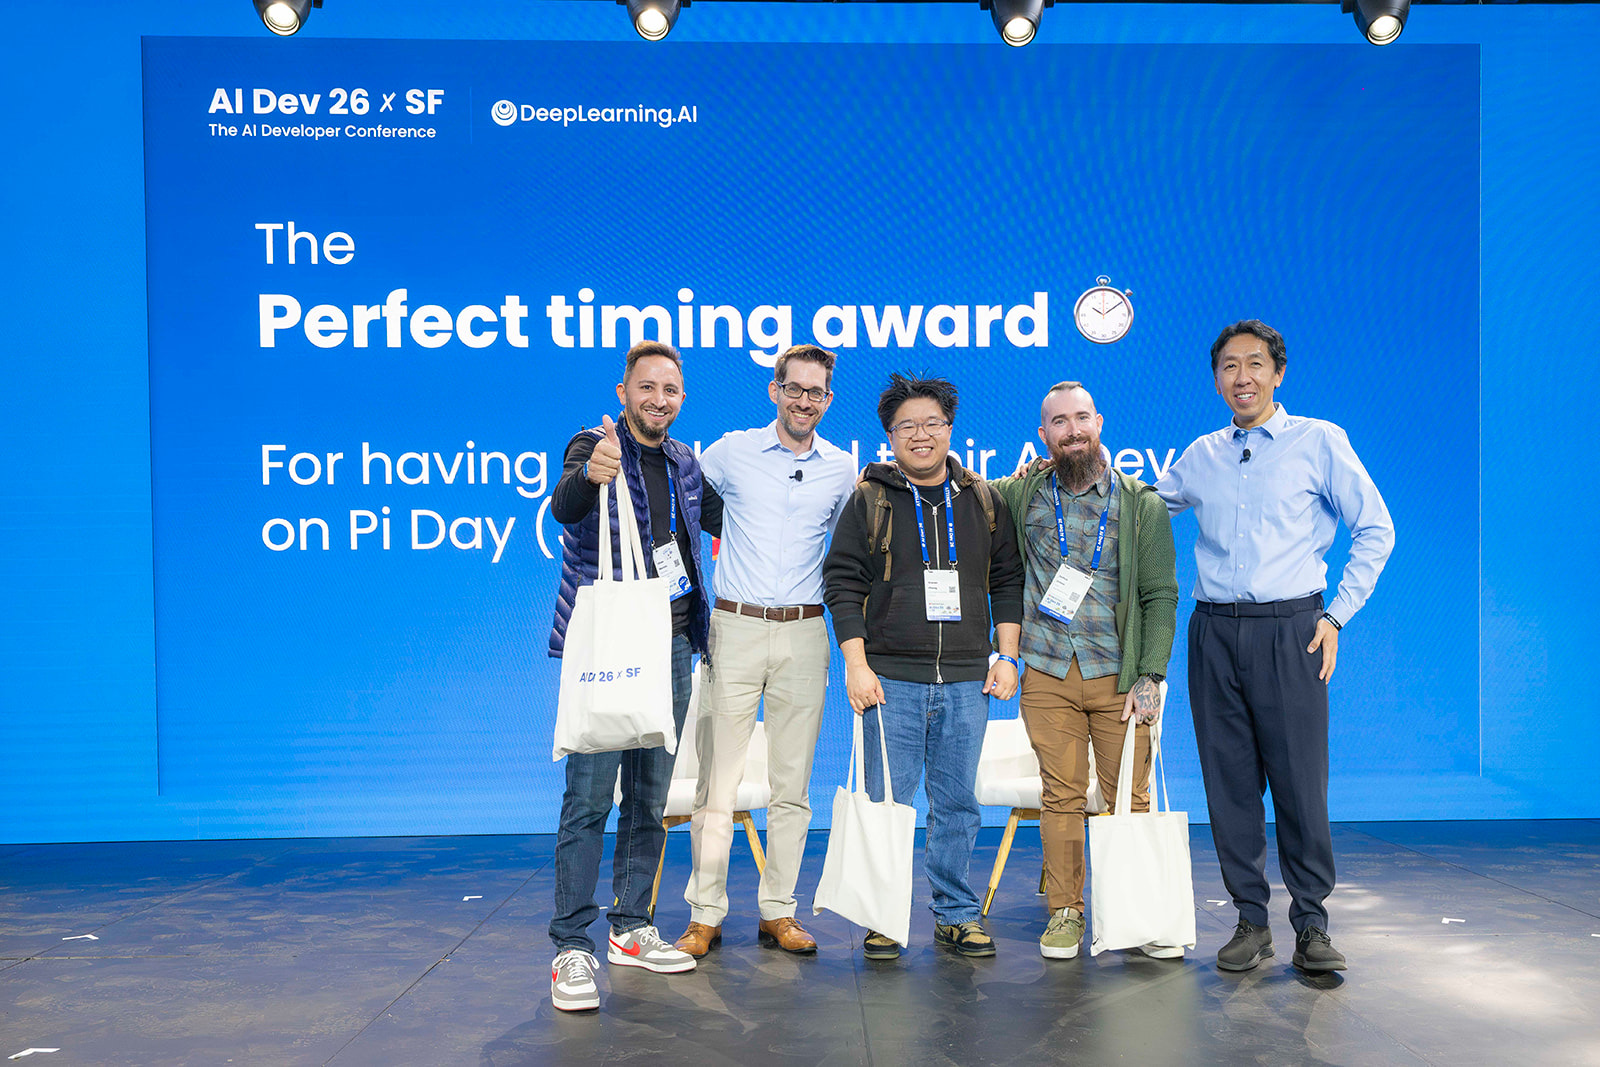
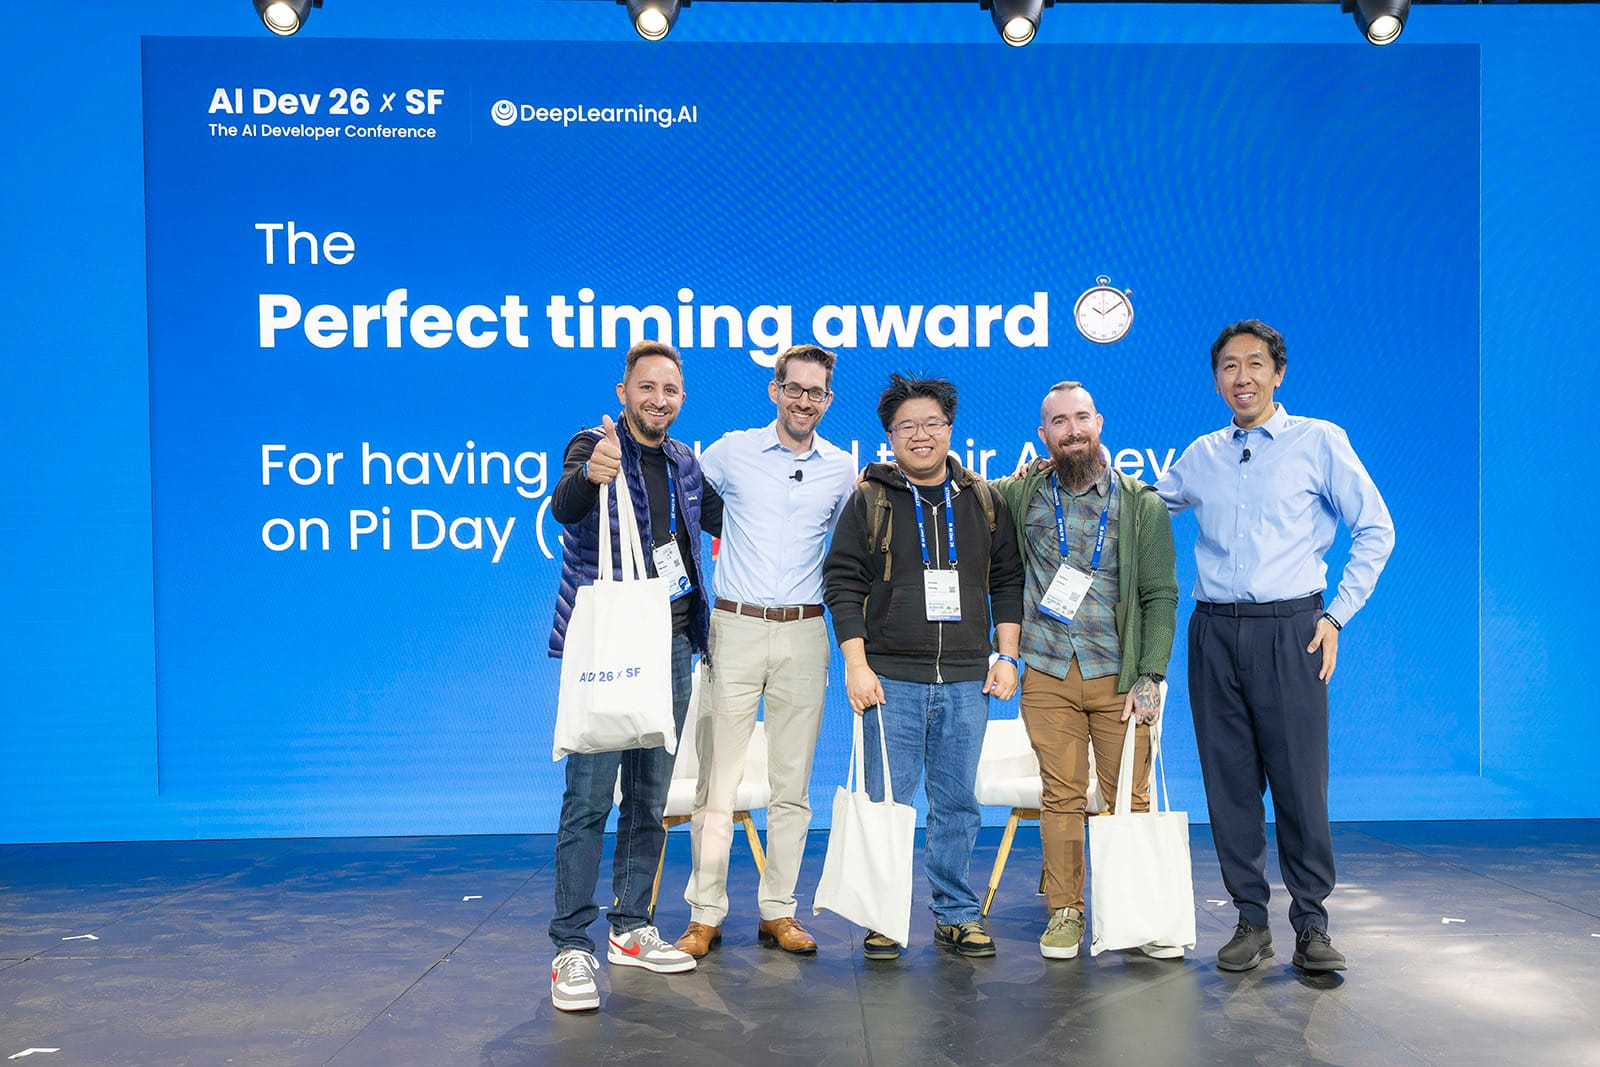
Performance: self-hosted fonts, compressed images, lazy loading
- Migrate Inter + JetBrains Mono to next/font/google CSS variables;
  remove the render-blocking Google Fonts @import from globals.css
- Compress the two conference photos with sharp (2.1MB -> 255KB and
  616KB -> 218KB, EXIF orientation preserved, same filenames)
- loading=lazy decoding=async on MDX images and side-quest galleries
- Blog list cards no longer replay their stagger animation on every
  search keystroke (animate on first mount only)

Claude-Session: https://claude.ai/code/session_01SyUrz6RwxZgkCLqQGGCmSj

diff --git a/components/BlogList.tsx b/components/BlogList.tsx
@@ -8,7 +8,7 @@
   - Hover effects
 */
 
-import { useState } from "react";
+import { useEffect, useRef, useState } from "react";
 import Link from "next/link";
 import { motion } from "framer-motion";
 import { Search, Calendar, Clock, ArrowRight } from "lucide-react";
@@ -30,6 +30,13 @@ function formatDate(dateString: string): string {
 
 export function BlogList({ posts }: BlogListProps) {
   const [searchQuery, setSearchQuery] = useState("");
+
+  // Stagger the entrance animation only on first mount — filtered cards
+  // re-mount while typing and shouldn't re-animate on every keystroke.
+  const hasAnimated = useRef(false);
+  useEffect(() => {
+    hasAnimated.current = true;
+  }, []);
 
   // Filter posts based on search query
   const filteredPosts = posts.filter((post) => {
@@ -62,9 +69,9 @@ export function BlogList({ posts }: BlogListProps) {
         {filteredPosts.map((post, index) => (
           <motion.article
             key={post.slug}
-            initial={{ opacity: 0, y: 20 }}
+            initial={hasAnimated.current ? false : { opacity: 0, y: 20 }}
             animate={{ opacity: 1, y: 0 }}
-            transition={{ delay: index * 0.1 }}
+            transition={{ delay: hasAnimated.current ? 0 : index * 0.1 }}
             className="group"
           >
             <Link href={`/blog/${post.slug}`}>

diff --git a/app/layout.tsx b/app/layout.tsx
@@ -11,10 +11,25 @@
 */
 
 import type { Metadata } from "next";
+import { Inter, JetBrains_Mono } from "next/font/google";
 import "./globals.css";
 import { Navigation } from "@/components/Navigation";
 import { Footer } from "@/components/Footer";
 import { ThemeProvider } from "@/components/ThemeProvider";
+
+// Self-hosted via next/font — replaces the render-blocking Google Fonts
+// @import that used to live in globals.css.
+const inter = Inter({
+  subsets: ["latin"],
+  variable: "--font-inter",
+  display: "swap",
+});
+
+const jetbrainsMono = JetBrains_Mono({
+  subsets: ["latin"],
+  variable: "--font-jetbrains-mono",
+  display: "swap",
+});
 
 // Metadata for SEO - this appears in browser tabs and search results
 export const metadata: Metadata = {
@@ -48,7 +63,11 @@ export default function RootLayout({
   children: React.ReactNode;
 }>) {
   return (
-    <html lang="en" suppressHydrationWarning>
+    <html
+      lang="en"
+      suppressHydrationWarning
+      className={`${inter.variable} ${jetbrainsMono.variable}`}
+    >
       {/*
         suppressHydrationWarning is needed because we're adding a class
         to <html> for dark mode, and it might differ between server and client

diff --git a/app/globals.css b/app/globals.css
@@ -1,5 +1,7 @@
-/* Import Google Fonts - must be before all other rules */
-@import url('https://fonts.googleapis.com/css2?family=Inter:wght@300;400;500;600;700&family=JetBrains+Mono:wght@400;500&display=swap');
+/*
+  Fonts are self-hosted via next/font in app/layout.tsx, which exposes
+  the CSS variables --font-inter and --font-jetbrains-mono.
+*/
 
 /*
   Global Styles for AI Journey Blog
@@ -43,7 +45,7 @@ body {
   /* Use CSS variables with Tailwind's rgb() syntax */
   background-color: rgb(var(--background));
   color: rgb(var(--foreground));
-  font-family: 'Inter', system-ui, sans-serif;
+  font-family: var(--font-inter), system-ui, sans-serif;
 }
 
 /* Custom utility classes */

diff --git a/tailwind.config.ts b/tailwind.config.ts
@@ -42,10 +42,10 @@ const config: Config = {
           900: "#7c2d12",
         },
       },
-      // Custom fonts (we'll use system fonts for fast loading)
+      // Fonts are self-hosted via next/font (see app/layout.tsx)
       fontFamily: {
-        sans: ["Inter", "system-ui", "sans-serif"],
-        mono: ["JetBrains Mono", "Consolas", "monospace"],
+        sans: ["var(--font-inter)", "system-ui", "sans-serif"],
+        mono: ["var(--font-jetbrains-mono)", "Consolas", "monospace"],
       },
       // Animation timing for smooth transitions
       animation: {

diff --git a/components/side-quests/RockClimbingSection.tsx b/components/side-quests/RockClimbingSection.tsx
@@ -81,6 +81,8 @@ export function RockClimbingSection({ images }: RockClimbingSectionProps) {
                 <img
                   src={image.src}
                   alt={image.alt}
+                  loading="lazy"
+                  decoding="async"
                   className="w-full h-auto block rounded-xl transition-transform duration-300 group-hover:brightness-90"
                   onError={() => handleImageError(index)}
                   draggable={false}

diff --git a/components/side-quests/SkyDivingGallery.tsx b/components/side-quests/SkyDivingGallery.tsx
@@ -80,6 +80,8 @@ export function SkyDivingGallery({ images }: SkyDivingGalleryProps) {
                 <img
                   src={image.src}
                   alt={image.alt}
+                  loading="lazy"
+                  decoding="async"
                   className="w-full h-auto block rounded-xl transition-transform duration-300 group-hover:brightness-90"
                   onError={() => handleImageError(index)}
                   draggable={false}

diff --git a/components/MDXContent.tsx b/components/MDXContent.tsx
@@ -126,6 +126,8 @@ const components = {
     <img
       src={src}
       alt={alt || ""}
+      loading="lazy"
+      decoding="async"
       className="rounded-lg shadow-md my-6 max-w-full"
       {...props}
     />
